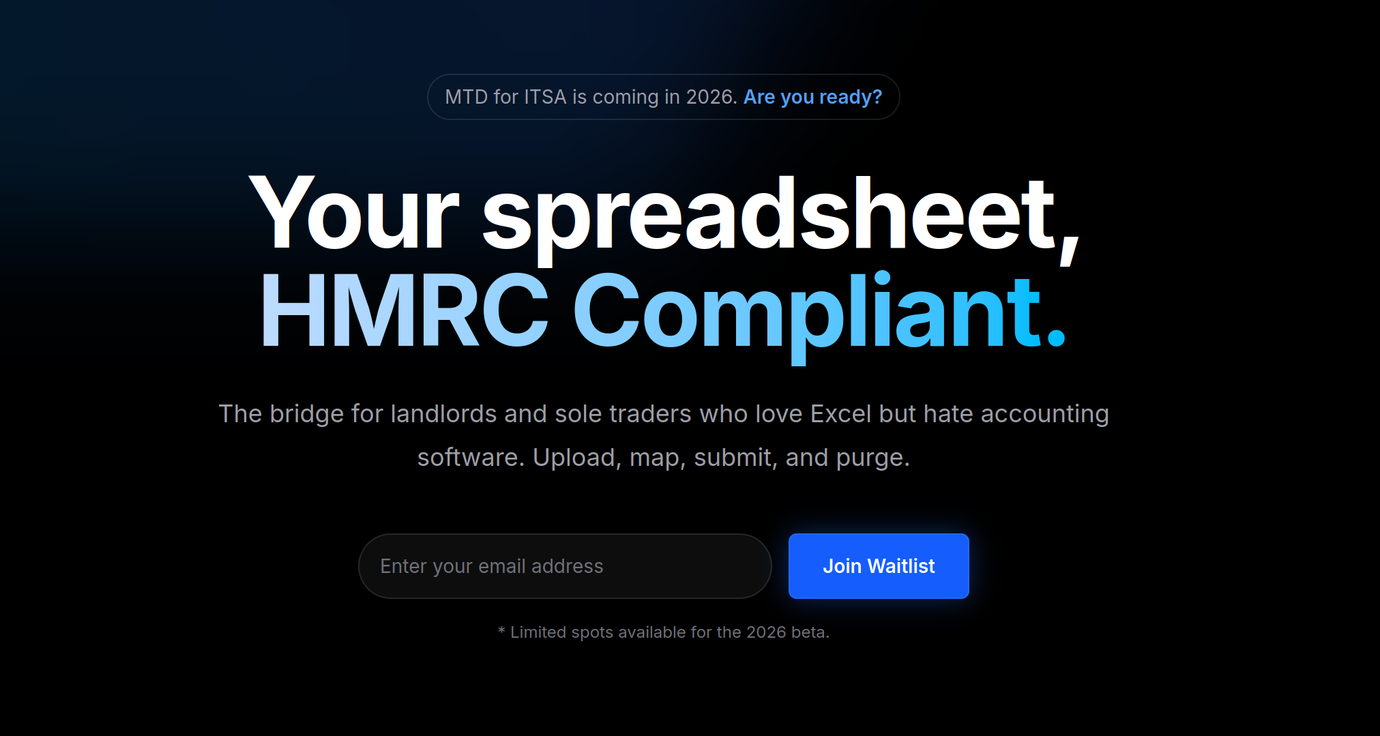
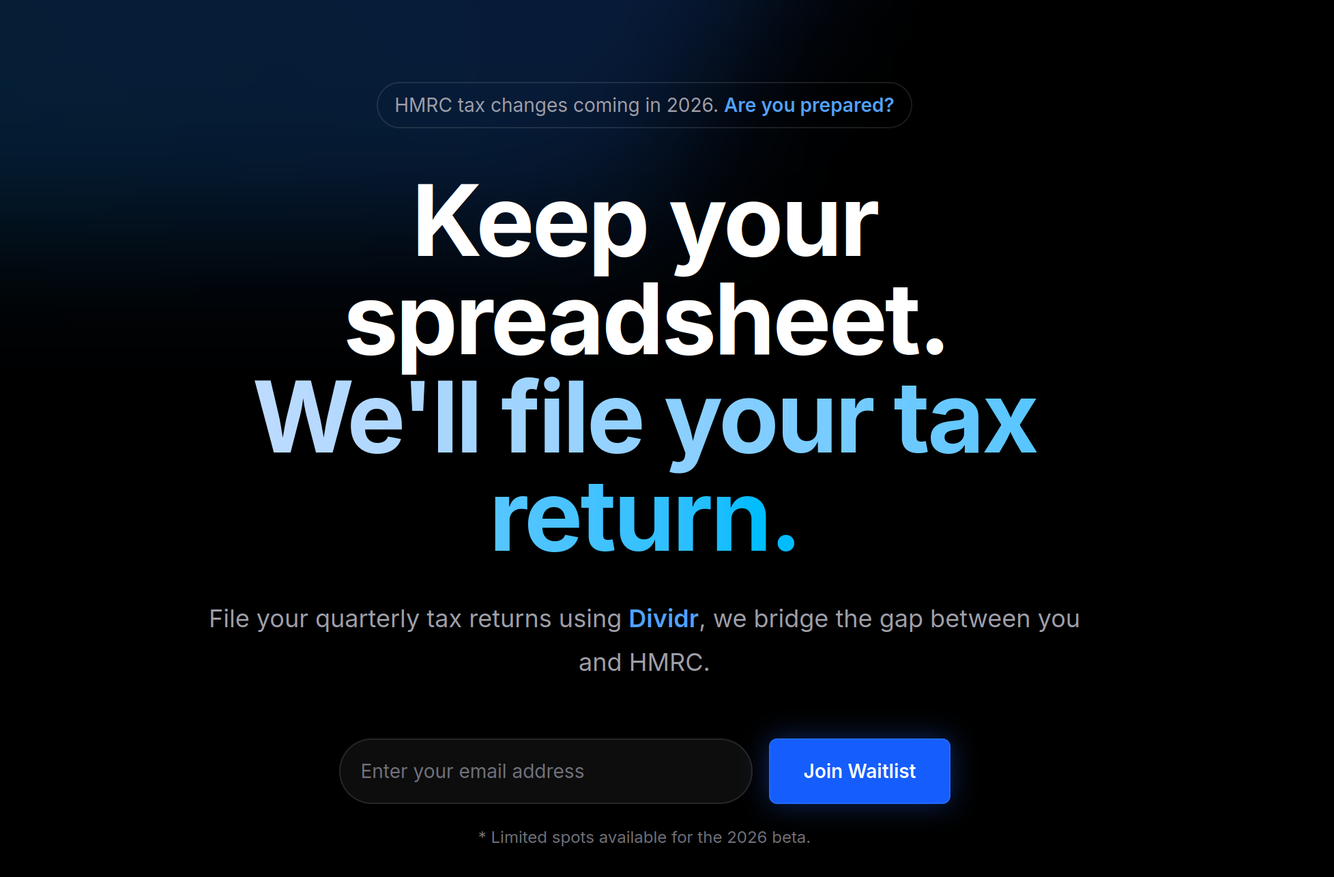
patch: making social image available and refactoring landing glow

diff --git a/web/templates/landing/page_templ.go b/web/templates/landing/page_templ.go
@@ -41,7 +41,7 @@ func Page() templ.Component {
 				}()
 			}
 			ctx = templ.InitializeContext(ctx)
-			templ_7745c5c3_Err = templruntime.WriteString(templ_7745c5c3_Buffer, 1, "<div class=\"relative isolate bg-black\"><div class=\"relative pt-14 pb-16 sm:pb-20\"><div class=\"absolute inset-x-0 -top-40 -z-10 transform-gpu overflow-hidden blur-3xl sm:-top-80\"><div class=\"relative left-[calc(50%-11rem)] aspect-[1155/678] w-[36.125rem] -translate-x-1/2 rotate-[30deg] bg-gradient-to-tr from-[#0284c7] to-[#2563eb] opacity-20 sm:left-[calc(50%-30rem)] sm:w-[72.1875rem]\"></div></div><div class=\"mx-auto max-w-2xl py-24 sm:py-48 text-center px-4\"><div class=\"mb-8 flex justify-center\"><div class=\"relative rounded-full px-3 py-1 text-sm leading-6 text-zinc-400 ring-1 ring-white/10 hover:ring-white/20\">HMRC tax changes coming in 2026. <span class=\"font-semibold text-blue-400\">Are you prepared?</span></div></div><h1 class=\"text-4xl font-bold tracking-tight text-white sm:text-7xl\">Keep your spreadsheet. <br><span class=\"text-transparent bg-clip-text bg-gradient-to-r from-blue-200 to-sky-400\">We'll file your tax return.</span></h1><p class=\"mt-6 text-lg leading-8 text-zinc-400\">File your quarterly tax returns using <span class=\"font-semibold text-blue-400\">Dividr</span>, we bridge the gap between you and HMRC.</p><div id=\"waitlist-form\" class=\"mt-10 flex flex-col items-center justify-center gap-4 sm:flex-row scroll-mt-20\"><form hx-post=\"/waitlist\" hx-swap=\"outerHTML\" hx-target=\"this\" class=\"flex w-full max-w-md flex-col gap-3 sm:flex-row transition-all duration-300\"><div class=\"fixed left-[-9999px] top-[-9999px]\" aria-hidden=\"true\"><label for=\"website-hp-hero\">Website</label> <input type=\"text\" name=\"website_hp\" id=\"website-hp-hero\" tabindex=\"-1\" autocomplete=\"off\"></div><input type=\"email\" name=\"email\" required placeholder=\"Enter your email address\" class=\"min-w-0 flex-auto rounded-full border-0 bg-white/5 px-4 py-3 text-white shadow-sm ring-1 ring-inset ring-white/10 focus:ring-2 focus:ring-inset focus:ring-blue-500 sm:text-sm sm:leading-6 placeholder:text-zinc-500\"> <button type=\"submit\" class=\"btn-glow whitespace-nowrap px-6 py-3 w-full sm:w-auto\">Join Waitlist</button></form></div><p class=\"mt-4 text-xs text-zinc-500\">* Limited spots available for the 2026 beta.</p></div></div><section class=\"pt-24 pb-32 px-6 bg-zinc-950/50 border-t border-white/5\"><div class=\"mx-auto max-w-7xl\"><div class=\"text-center mb-16 max-w-2xl mx-auto\"><h2 class=\"text-3xl font-bold tracking-tight text-white sm:text-4xl\">Built for speed and compliance</h2><p class=\"mt-4 text-lg text-zinc-400\">Everything you need to maintain your tax audit trail without changing how you work.</p></div><div class=\"grid grid-cols-1 gap-8 sm:grid-cols-3\"><div class=\"card-glass p-8 bg-zinc-900/40 border border-white/5 rounded-2xl transition-all duration-300 hover:border-blue-500/30 hover:shadow-[0_0_30px_-5px_rgba(37,99,235,0.15)] hover:bg-zinc-900 group\"><div class=\"text-blue-400 mb-4 group-hover:scale-110 transition-transform duration-300 origin-left\"><svg class=\"h-6 w-6\" fill=\"none\" viewBox=\"0 0 24 24\" stroke-width=\"1.5\" stroke=\"currentColor\"><path stroke-linecap=\"round\" stroke-linejoin=\"round\" d=\"M9 12.75L11.25 15 15 9.75M21 12c0 1.268-.63 2.39-1.593 3.068a3.745 3.745 0 01-1.043 3.296 3.745 3.745 0 01-3.296 1.043A3.745 3.745 0 0112 21c-1.268 0-2.39-.63-3.068-1.593a3.746 3.746 0 01-3.296-1.043 3.745 3.745 0 01-1.043-3.296A3.745 3.745 0 013 12c0-1.268.63-2.39 1.593-3.068a3.745 3.745 0 011.043-3.296 3.746 3.746 0 013.296-1.043A3.746 3.746 0 0112 3c1.268 0 2.39.63 3.068 1.593a3.746 3.746 0 013.296 1.043 3.746 3.746 0 011.043 3.296A3.745 3.745 0 0121 12z\"></path></svg></div><h3 class=\"text-lg font-semibold text-white group-hover:text-blue-200 transition-colors\">HMRC Recognised</h3><p class=\"mt-2 text-sm text-zinc-400\">We are fully compliant with HMRC tax requirements.</p></div><div class=\"card-glass p-8 bg-zinc-900/40 border border-white/5 rounded-2xl transition-all duration-300 hover:border-blue-500/30 hover:shadow-[0_0_30px_-5px_rgba(37,99,235,0.15)] hover:bg-zinc-900 group\"><div class=\"text-blue-400 mb-4 group-hover:scale-110 transition-transform duration-300 origin-left\"><svg class=\"h-6 w-6\" fill=\"none\" viewBox=\"0 0 24 24\" stroke-width=\"1.5\" stroke=\"currentColor\"><path stroke-linecap=\"round\" stroke-linejoin=\"round\" d=\"M14.74 9l-.346 9m-4.788 0L9.26 9m9.968-3.21c.342.052.682.107 1.022.166m-1.022-.165L18.16 19.673a2.25 2.25 0 01-2.244 2.077H8.084a2.25 2.25 0 01-2.244-2.077L4.772 5.79m14.456 0a48.108 48.108 0 00-3.478-.397m-12 .562c.34-.059.68-.114 1.022-.165m0 0a48.11 48.11 0 013.478-.397m7.5 0v-.916c0-1.18-.91-2.164-2.09-2.201a51.964 51.964 0 00-3.32 0c-1.18.037-2.09 1.022-2.09 2.201v.916m7.5 0a48.667 48.667 0 00-7.5 0\"></path></svg></div><h3 class=\"text-lg font-semibold text-white group-hover:text-blue-200 transition-colors\">Privacy First</h3><p class=\"mt-2 text-sm text-zinc-400\">We clear transaction details within 24 hours. Your privacy is our priority.</p></div><div class=\"card-glass p-8 bg-zinc-900/40 border border-white/5 rounded-2xl transition-all duration-300 hover:border-blue-500/30 hover:shadow-[0_0_30px_-5px_rgba(37,99,235,0.15)] hover:bg-zinc-900 group\"><div class=\"text-blue-400 mb-4 group-hover:scale-110 transition-transform duration-300 origin-left\"><svg class=\"h-6 w-6\" fill=\"none\" viewBox=\"0 0 24 24\" stroke-width=\"1.5\" stroke=\"currentColor\"><path stroke-linecap=\"round\" stroke-linejoin=\"round\" d=\"M3.75 4.875c0-.621.504-1.125 1.125-1.125h4.5c.621 0 1.125.504 1.125 1.125v4.5c0 .621-.504 1.125-1.125 1.125h-4.5A1.125 1.125 0 013.75 9.375v-4.5zM3.75 14.625c0-.621.504-1.125 1.125-1.125h4.5c.621 0 1.125.504 1.125 1.125v4.5c0 .621-.504 1.125-1.125 1.125h-4.5a1.125 1.125 0 01-1.125-1.125v-4.5zM13.5 4.875c0-.621.504-1.125 1.125-1.125h4.5c.621 0 1.125.504 1.125 1.125v4.5c0 .621-.504 1.125-1.125 1.125h-4.5A1.125 1.125 0 0113.5 9.375v-4.5z\"></path><path stroke-linecap=\"round\" stroke-linejoin=\"round\" d=\"M6.75 6.75h.75v.75h-.75v-.75zM6.75 16.5h.75v.75h-.75v-.75zM16.5 6.75h.75v.75h-.75v-.75zM13.5 13.5h.75v.75h-.75v-.75zM13.5 19.5h.75v.75h-.75v-.75zM19.5 13.5h.75v.75h-.75v-.75zM19.5 19.5h.75v.75h-.75v-.75zM16.5 16.5h.75v.75h-.75v-.75z\"></path></svg></div><h3 class=\"text-lg font-semibold text-white group-hover:text-blue-200 transition-colors\">Smart Mapping</h3><p class=\"mt-2 text-sm text-zinc-400\">Tell us once which spreadsheet columns contain dates and amounts. Future uploads take seconds.</p></div></div></div></section><div class=\"mt-0 py-12 bg-black overflow-hidden border-b border-white/5\"><div class=\"mx-auto max-w-7xl px-6 lg:px-8\"><h2 class=\"text-center text-sm font-semibold leading-8 text-zinc-500 mb-12\"><span class=\"font-semibold text-blue-400\">Dividr </span>is compatible with your favourite spreadsheet formats:</h2><div class=\"relative w-full overflow-hidden mask-gradient\"><div class=\"flex animate-scroll-seamless gap-24 w-max\"><div class=\"flex gap-24 items-center shrink-0\"><div class=\"flex items-center gap-3 text-zinc-500 font-semibold text-lg\">Excel</div><div class=\"flex items-center gap-3 text-zinc-500 font-semibold text-lg\">CSV</div><div class=\"flex items-center gap-3 text-zinc-500 font-semibold text-lg\">Google Sheets</div><div class=\"flex items-center gap-3 text-zinc-500 font-semibold text-lg\">Apple Numbers</div><div class=\"flex items-center gap-3 text-zinc-500 font-semibold text-lg\">XLSX</div></div><div class=\"flex gap-24 items-center shrink-0\"><div class=\"flex items-center gap-3 text-zinc-500 font-semibold text-lg\">Excel</div><div class=\"flex items-center gap-3 text-zinc-500 font-semibold text-lg\">CSV</div><div class=\"flex items-center gap-3 text-zinc-500 font-semibold text-lg\">Google Sheets</div><div class=\"flex items-center gap-3 text-zinc-500 font-semibold text-lg\">Apple Numbers</div><div class=\"flex items-center gap-3 text-zinc-500 font-semibold text-lg\">XLSX</div></div></div></div></div></div><div class=\"relative isolate overflow-hidden bg-black\"><div class=\"absolute inset-x-0 top-0 -z-10 transform-gpu overflow-hidden opacity-30 blur-3xl\" aria-hidden=\"true\"><div class=\"relative left-[calc(50%-20rem)] aspect-[1155/678] w-[50rem] -translate-x-1/2 rotate-[30deg] bg-gradient-to-tr from-[#0284c7] to-[#2563eb] opacity-40 sm:left-[calc(50%-35rem)] sm:w-[75rem]\"></div></div><div id=\"how-it-works\" class=\"pt-30 pb-12 sm:pt-35 sm:pb-16 px-6\"><div class=\"mx-auto max-w-7xl lg:px-8\"><div class=\"mx-auto max-w-2xl lg:text-center\"><h2 class=\"text-base font-semibold leading-7 text-blue-400\">The Workflow</h2><p class=\"mt-2 text-3xl font-bold tracking-tight text-white sm:text-4xl\">Keep your process. Automate the tax filing.</p></div><div class=\"mx-auto mt-16 max-w-2xl sm:mt-20 lg:mt-24 lg:max-w-none\"><dl class=\"grid max-w-xl grid-cols-1 gap-x-8 gap-y-12 lg:max-w-none lg:grid-cols-3\"><div class=\"flex flex-col\"><dt class=\"flex items-center gap-x-3 text-base font-semibold leading-7 text-white\"><div class=\"h-10 w-10 flex items-center justify-center rounded-lg bg-blue-600/10 ring-1 ring-blue-600/20\"><span class=\"text-blue-400 font-bold\">1</span></div>Upload a Spreadsheet</dt><dd class=\"mt-4 flex flex-auto flex-col text-base leading-7 text-zinc-400\"><p class=\"flex-auto\">Export your spreadsheet and drop it into our secure platform.</p></dd></div><div class=\"flex flex-col\"><dt class=\"flex items-center gap-x-3 text-base font-semibold leading-7 text-white\"><div class=\"h-10 w-10 flex items-center justify-center rounded-lg bg-blue-600/10 ring-1 ring-blue-600/20\"><span class=\"text-blue-400 font-bold\">2</span></div>Match Columns</dt><dd class=\"mt-4 flex flex-auto flex-col text-base leading-7 text-zinc-400\"><p class=\"flex-auto\">Tell us which spreadsheet column is \"Date\" and which is \"Amount\". We store this mapping for future uploads.</p></dd></div><div class=\"flex flex-col\"><dt class=\"flex items-center gap-x-3 text-base font-semibold leading-7 text-white\"><div class=\"h-10 w-10 flex items-center justify-center rounded-lg bg-blue-600/10 ring-1 ring-blue-600/20\"><span class=\"text-blue-400 font-bold\">3</span></div>File Return</dt><dd class=\"mt-4 flex flex-auto flex-col text-base leading-7 text-zinc-400\"><p class=\"flex-auto\">We send the data to HMRC and generate your tax receipt. Your raw transactional data is then securely cleared.</p></dd></div></dl></div></div></div><div class=\"py-24 sm:py-32 border-t border-white/5 relative\"><div class=\"mx-auto max-w-7xl px-6 lg:px-8\"><div class=\"mx-auto max-w-2xl lg:text-center mb-16\"><h2 class=\"text-base font-semibold leading-7 text-blue-400\">Common Questions</h2><p class=\"mt-2 text-3xl font-bold tracking-tight text-white sm:text-4xl\">Everything you need to know</p></div><div class=\"mx-auto max-w-2xl divide-y divide-white/10\"><div class=\"py-6\"><details class=\"group\"><summary class=\"flex w-full items-start justify-between text-left text-white cursor-pointer list-none\"><span class=\"text-base font-semibold leading-7\">Is this fully HMRC compliant?</span> <span class=\"ml-6 flex h-7 items-center\"><svg class=\"h-6 w-6 transform group-open:rotate-180 transition-transform text-blue-400\" fill=\"none\" viewBox=\"0 0 24 24\" stroke-width=\"1.5\" stroke=\"currentColor\"><path stroke-linecap=\"round\" stroke-linejoin=\"round\" d=\"M19.5 8.25l-7.5 7.5-7.5-7.5\"></path></svg></span></summary><p class=\"mt-4 text-base leading-7 text-zinc-400\">Yes. By uploading your spreadsheet to our platform, you meet HMRC's Making Tax Digital requirements. We provide the digital link needed to keep your records compliant.</p></details></div><div class=\"py-6\"><details class=\"group\"><summary class=\"flex w-full items-start justify-between text-left text-white cursor-pointer list-none\"><span class=\"text-base font-semibold leading-7\">Do you store my transactional data?</span> <span class=\"ml-6 flex h-7 items-center\"><svg class=\"h-6 w-6 transform group-open:rotate-180 transition-transform text-blue-400\" fill=\"none\" viewBox=\"0 0 24 24\" stroke-width=\"1.5\" stroke=\"currentColor\"><path stroke-linecap=\"round\" stroke-linejoin=\"round\" d=\"M19.5 8.25l-7.5 7.5-7.5-7.5\"></path></svg></span></summary><p class=\"mt-4 text-base leading-7 text-zinc-400\">No. Files are staged temporarily to generate the return and then deleted. We only keep the submission receipt and your spreadsheet column mappings.</p></details></div><div class=\"py-6\"><details class=\"group\"><summary class=\"flex w-full items-start justify-between text-left text-white cursor-pointer list-none\"><span class=\"text-base font-semibold leading-7\">Who is this for?</span> <span class=\"ml-6 flex h-7 items-center\"><svg class=\"h-6 w-6 transform group-open:rotate-180 transition-transform text-blue-400\" fill=\"none\" viewBox=\"0 0 24 24\" stroke-width=\"1.5\" stroke=\"currentColor\"><path stroke-linecap=\"round\" stroke-linejoin=\"round\" d=\"M19.5 8.25l-7.5 7.5-7.5-7.5\"></path></svg></span></summary><p class=\"mt-4 text-base leading-7 text-zinc-400\">Landlords and Sole Traders earning over £50k (starting 2026) who want to keep using spreadsheets rather than switching to complex accounting software.</p></details></div></div></div></div><div class=\"mt-0 px-6 pt-0 pb-24 sm:pt-0 sm:pb-32 lg:px-8\"><div class=\"mx-auto max-w-2xl text-center\"><h2 class=\"text-3xl font-bold tracking-tight text-white sm:text-4xl\">Ready to get sorted?</h2><p class=\"mx-auto mt-6 max-w-xl text-lg leading-8 text-zinc-400\">Join the waiting list today. Secure your spot for the 2026 mandate.</p><div class=\"mt-10 flex flex-col items-center justify-center gap-4 sm:flex-row\"><form hx-post=\"/waitlist\" hx-swap=\"outerHTML\" hx-target=\"this\" class=\"flex w-full max-w-md flex-col gap-3 sm:flex-row transition-all duration-300\"><div class=\"fixed left-[-9999px] top-[-9999px]\" aria-hidden=\"true\"><label for=\"website-hp-footer\">Website</label> <input type=\"text\" name=\"website_hp\" id=\"website-hp-footer\" tabindex=\"-1\" autocomplete=\"off\"></div><input type=\"email\" name=\"email\" required placeholder=\"Enter your email address\" class=\"min-w-0 flex-auto rounded-full border-0 bg-white/5 px-4 py-3 text-white shadow-sm ring-1 ring-inset ring-white/10 focus:ring-2 focus:ring-inset focus:ring-blue-500 sm:text-sm sm:leading-6 placeholder:text-zinc-500\"> <button type=\"submit\" class=\"btn-glow whitespace-nowrap px-6 py-3 w-full sm:w-auto\">Join Waitlist</button></form></div></div></div></div></div>")
+			templ_7745c5c3_Err = templruntime.WriteString(templ_7745c5c3_Buffer, 1, "<div class=\"relative isolate bg-black\"><div class=\"relative pt-14 pb-16 sm:pb-20\"><div class=\"absolute inset-x-0 -top-40 -z-10 transform-gpu overflow-hidden blur-3xl sm:-top-80\"><div class=\"relative left-[calc(50%-11rem)] aspect-[1155/678] w-[36.125rem] -translate-x-1/2 rotate-[30deg] bg-gradient-to-tr from-[#0284c7] to-[#2563eb] opacity-25 sm:opacity-25 sm:left-[calc(50%-30rem)] sm:w-[72.1875rem]\"></div></div><div class=\"mx-auto max-w-2xl py-24 sm:py-48 text-center px-4\"><div class=\"mb-8 flex justify-center\"><div class=\"relative rounded-full px-3 py-1 text-sm leading-6 text-zinc-400 ring-1 ring-white/10 hover:ring-white/20\">HMRC tax changes coming in 2026. <span class=\"font-semibold text-blue-400\">Are you prepared?</span></div></div><h1 class=\"text-4xl font-bold tracking-tight text-white sm:text-7xl\">Keep your spreadsheet. <br><span class=\"text-transparent bg-clip-text bg-gradient-to-r from-blue-200 to-sky-400\">We'll file your tax return.</span></h1><p class=\"mt-6 text-lg leading-8 text-zinc-400\">File your quarterly tax returns using <span class=\"font-semibold text-blue-400\">Dividr</span>, we bridge the gap between you and HMRC.</p><div id=\"waitlist-form\" class=\"mt-10 flex flex-col items-center justify-center gap-4 sm:flex-row scroll-mt-20\"><form hx-post=\"/waitlist\" hx-swap=\"outerHTML\" hx-target=\"this\" class=\"flex w-full max-w-md flex-col gap-3 sm:flex-row transition-all duration-300\"><div class=\"fixed left-[-9999px] top-[-9999px]\" aria-hidden=\"true\"><label for=\"website-hp-hero\">Website</label> <input type=\"text\" name=\"website_hp\" id=\"website-hp-hero\" tabindex=\"-1\" autocomplete=\"off\"></div><input type=\"email\" name=\"email\" required placeholder=\"Enter your email address\" class=\"min-w-0 flex-auto rounded-full border-0 bg-white/5 px-4 py-3 text-white shadow-sm ring-1 ring-inset ring-white/10 focus:ring-2 focus:ring-inset focus:ring-blue-500 sm:text-sm sm:leading-6 placeholder:text-zinc-500\"> <button type=\"submit\" class=\"btn-glow whitespace-nowrap px-6 py-3 w-full sm:w-auto\">Join Waitlist</button></form></div><p class=\"mt-4 text-xs text-zinc-500\">* Limited spots available for the 2026 beta.</p></div></div><section class=\"pt-24 pb-32 px-6 bg-zinc-950/50 border-t border-white/5\"><div class=\"mx-auto max-w-7xl\"><div class=\"text-center mb-16 max-w-2xl mx-auto\"><h2 class=\"text-3xl font-bold tracking-tight text-white sm:text-4xl\">Built for speed and compliance</h2><p class=\"mt-4 text-lg text-zinc-400\">Everything you need to maintain your tax audit trail without changing how you work.</p></div><div class=\"grid grid-cols-1 gap-8 sm:grid-cols-3\"><div class=\"card-glass p-8 bg-zinc-900/40 border border-white/5 rounded-2xl transition-all duration-300 hover:border-blue-500/30 hover:shadow-[0_0_30px_-5px_rgba(37,99,235,0.15)] hover:bg-zinc-900 group\"><div class=\"text-blue-400 mb-4 group-hover:scale-110 transition-transform duration-300 origin-left\"><svg class=\"h-6 w-6\" fill=\"none\" viewBox=\"0 0 24 24\" stroke-width=\"1.5\" stroke=\"currentColor\"><path stroke-linecap=\"round\" stroke-linejoin=\"round\" d=\"M9 12.75L11.25 15 15 9.75M21 12c0 1.268-.63 2.39-1.593 3.068a3.745 3.745 0 01-1.043 3.296 3.745 3.745 0 01-3.296 1.043A3.745 3.745 0 0112 21c-1.268 0-2.39-.63-3.068-1.593a3.746 3.746 0 01-3.296-1.043 3.745 3.745 0 01-1.043-3.296A3.745 3.745 0 013 12c0-1.268.63-2.39 1.593-3.068a3.745 3.745 0 011.043-3.296 3.746 3.746 0 013.296-1.043A3.746 3.746 0 0112 3c1.268 0 2.39.63 3.068 1.593a3.746 3.746 0 013.296 1.043 3.746 3.746 0 011.043 3.296A3.745 3.745 0 0121 12z\"></path></svg></div><h3 class=\"text-lg font-semibold text-white group-hover:text-blue-200 transition-colors\">HMRC Recognised</h3><p class=\"mt-2 text-sm text-zinc-400\">We are fully compliant with HMRC tax requirements.</p></div><div class=\"card-glass p-8 bg-zinc-900/40 border border-white/5 rounded-2xl transition-all duration-300 hover:border-blue-500/30 hover:shadow-[0_0_30px_-5px_rgba(37,99,235,0.15)] hover:bg-zinc-900 group\"><div class=\"text-blue-400 mb-4 group-hover:scale-110 transition-transform duration-300 origin-left\"><svg class=\"h-6 w-6\" fill=\"none\" viewBox=\"0 0 24 24\" stroke-width=\"1.5\" stroke=\"currentColor\"><path stroke-linecap=\"round\" stroke-linejoin=\"round\" d=\"M14.74 9l-.346 9m-4.788 0L9.26 9m9.968-3.21c.342.052.682.107 1.022.166m-1.022-.165L18.16 19.673a2.25 2.25 0 01-2.244 2.077H8.084a2.25 2.25 0 01-2.244-2.077L4.772 5.79m14.456 0a48.108 48.108 0 00-3.478-.397m-12 .562c.34-.059.68-.114 1.022-.165m0 0a48.11 48.11 0 013.478-.397m7.5 0v-.916c0-1.18-.91-2.164-2.09-2.201a51.964 51.964 0 00-3.32 0c-1.18.037-2.09 1.022-2.09 2.201v.916m7.5 0a48.667 48.667 0 00-7.5 0\"></path></svg></div><h3 class=\"text-lg font-semibold text-white group-hover:text-blue-200 transition-colors\">Privacy First</h3><p class=\"mt-2 text-sm text-zinc-400\">We clear transaction details within 24 hours. Your privacy is our priority.</p></div><div class=\"card-glass p-8 bg-zinc-900/40 border border-white/5 rounded-2xl transition-all duration-300 hover:border-blue-500/30 hover:shadow-[0_0_30px_-5px_rgba(37,99,235,0.15)] hover:bg-zinc-900 group\"><div class=\"text-blue-400 mb-4 group-hover:scale-110 transition-transform duration-300 origin-left\"><svg class=\"h-6 w-6\" fill=\"none\" viewBox=\"0 0 24 24\" stroke-width=\"1.5\" stroke=\"currentColor\"><path stroke-linecap=\"round\" stroke-linejoin=\"round\" d=\"M3.75 4.875c0-.621.504-1.125 1.125-1.125h4.5c.621 0 1.125.504 1.125 1.125v4.5c0 .621-.504 1.125-1.125 1.125h-4.5A1.125 1.125 0 013.75 9.375v-4.5zM3.75 14.625c0-.621.504-1.125 1.125-1.125h4.5c.621 0 1.125.504 1.125 1.125v4.5c0 .621-.504 1.125-1.125 1.125h-4.5a1.125 1.125 0 01-1.125-1.125v-4.5zM13.5 4.875c0-.621.504-1.125 1.125-1.125h4.5c.621 0 1.125.504 1.125 1.125v4.5c0 .621-.504 1.125-1.125 1.125h-4.5A1.125 1.125 0 0113.5 9.375v-4.5z\"></path><path stroke-linecap=\"round\" stroke-linejoin=\"round\" d=\"M6.75 6.75h.75v.75h-.75v-.75zM6.75 16.5h.75v.75h-.75v-.75zM16.5 6.75h.75v.75h-.75v-.75zM13.5 13.5h.75v.75h-.75v-.75zM13.5 19.5h.75v.75h-.75v-.75zM19.5 13.5h.75v.75h-.75v-.75zM19.5 19.5h.75v.75h-.75v-.75zM16.5 16.5h.75v.75h-.75v-.75z\"></path></svg></div><h3 class=\"text-lg font-semibold text-white group-hover:text-blue-200 transition-colors\">Smart Mapping</h3><p class=\"mt-2 text-sm text-zinc-400\">Tell us once which spreadsheet columns contain dates and amounts. Future uploads take seconds.</p></div></div></div></section><div class=\"mt-0 py-12 bg-black overflow-hidden border-b border-white/5\"><div class=\"mx-auto max-w-7xl px-6 lg:px-8\"><h2 class=\"text-center text-sm font-semibold leading-8 text-zinc-500 mb-12\"><span class=\"font-semibold text-blue-400\">Dividr </span>is compatible with your favourite spreadsheet formats:</h2><div class=\"relative w-full overflow-hidden mask-gradient\"><div class=\"flex animate-scroll-seamless gap-24 w-max\"><div class=\"flex gap-24 items-center shrink-0\"><div class=\"flex items-center gap-3 text-zinc-500 font-semibold text-lg\">Excel</div><div class=\"flex items-center gap-3 text-zinc-500 font-semibold text-lg\">CSV</div><div class=\"flex items-center gap-3 text-zinc-500 font-semibold text-lg\">Google Sheets</div><div class=\"flex items-center gap-3 text-zinc-500 font-semibold text-lg\">Apple Numbers</div><div class=\"flex items-center gap-3 text-zinc-500 font-semibold text-lg\">XLSX</div></div><div class=\"flex gap-24 items-center shrink-0\"><div class=\"flex items-center gap-3 text-zinc-500 font-semibold text-lg\">Excel</div><div class=\"flex items-center gap-3 text-zinc-500 font-semibold text-lg\">CSV</div><div class=\"flex items-center gap-3 text-zinc-500 font-semibold text-lg\">Google Sheets</div><div class=\"flex items-center gap-3 text-zinc-500 font-semibold text-lg\">Apple Numbers</div><div class=\"flex items-center gap-3 text-zinc-500 font-semibold text-lg\">XLSX</div></div></div></div></div></div><div class=\"relative isolate overflow-hidden bg-black\"><div class=\"absolute inset-x-0 top-0 -z-10 transform-gpu overflow-hidden blur-3xl\" aria-hidden=\"true\"><div class=\"relative left-[calc(50%-20rem)] aspect-[1155/678] w-[50rem] -translate-x-1/2 rotate-[30deg] bg-gradient-to-tr from-[#0284c7] to-[#2563eb] \n                        opacity-30 sm:opacity-30 \n                        sm:left-[calc(50%-35rem)] sm:w-[75rem]\"></div></div><div id=\"how-it-works\" class=\"pt-30 pb-12 sm:pt-35 sm:pb-16 px-6\"><div class=\"mx-auto max-w-7xl lg:px-8\"><div class=\"mx-auto max-w-2xl lg:text-center\"><h2 class=\"text-base font-semibold leading-7 text-blue-400\">The Workflow</h2><p class=\"mt-2 text-3xl font-bold tracking-tight text-white sm:text-4xl\">Keep your process. Automate the tax filing.</p></div><div class=\"mx-auto mt-16 max-w-2xl sm:mt-20 lg:mt-24 lg:max-w-none\"><dl class=\"grid max-w-xl grid-cols-1 gap-x-8 gap-y-12 lg:max-w-none lg:grid-cols-3\"><div class=\"flex flex-col\"><dt class=\"flex items-center gap-x-3 text-base font-semibold leading-7 text-white\"><div class=\"h-10 w-10 flex items-center justify-center rounded-lg bg-blue-600/10 ring-1 ring-blue-600/20\"><span class=\"text-blue-400 font-bold\">1</span></div>Upload a Spreadsheet</dt><dd class=\"mt-4 flex flex-auto flex-col text-base leading-7 text-zinc-400\"><p class=\"flex-auto\">Export your spreadsheet and drop it into our secure platform.</p></dd></div><div class=\"flex flex-col\"><dt class=\"flex items-center gap-x-3 text-base font-semibold leading-7 text-white\"><div class=\"h-10 w-10 flex items-center justify-center rounded-lg bg-blue-600/10 ring-1 ring-blue-600/20\"><span class=\"text-blue-400 font-bold\">2</span></div>Match Columns</dt><dd class=\"mt-4 flex flex-auto flex-col text-base leading-7 text-zinc-400\"><p class=\"flex-auto\">Tell us which spreadsheet column is \"Date\" and which is \"Amount\". We store this mapping for future uploads.</p></dd></div><div class=\"flex flex-col\"><dt class=\"flex items-center gap-x-3 text-base font-semibold leading-7 text-white\"><div class=\"h-10 w-10 flex items-center justify-center rounded-lg bg-blue-600/10 ring-1 ring-blue-600/20\"><span class=\"text-blue-400 font-bold\">3</span></div>File Return</dt><dd class=\"mt-4 flex flex-auto flex-col text-base leading-7 text-zinc-400\"><p class=\"flex-auto\">We send the data to HMRC and generate your tax receipt. Your raw transactional data is then securely cleared.</p></dd></div></dl></div></div></div><div class=\"py-24 sm:py-32 border-t border-white/5 relative\"><div class=\"mx-auto max-w-7xl px-6 lg:px-8\"><div class=\"mx-auto max-w-2xl lg:text-center mb-16\"><h2 class=\"text-base font-semibold leading-7 text-blue-400\">Common Questions</h2><p class=\"mt-2 text-3xl font-bold tracking-tight text-white sm:text-4xl\">Everything you need to know</p></div><div class=\"mx-auto max-w-2xl divide-y divide-white/10\"><div class=\"py-6\"><details class=\"group\"><summary class=\"flex w-full items-start justify-between text-left text-white cursor-pointer list-none\"><span class=\"text-base font-semibold leading-7\">Is this fully HMRC compliant?</span> <span class=\"ml-6 flex h-7 items-center\"><svg class=\"h-6 w-6 transform group-open:rotate-180 transition-transform text-blue-400\" fill=\"none\" viewBox=\"0 0 24 24\" stroke-width=\"1.5\" stroke=\"currentColor\"><path stroke-linecap=\"round\" stroke-linejoin=\"round\" d=\"M19.5 8.25l-7.5 7.5-7.5-7.5\"></path></svg></span></summary><p class=\"mt-4 text-base leading-7 text-zinc-400\">Yes. By uploading your spreadsheet to our platform, you meet HMRC's Making Tax Digital requirements. We provide the digital link needed to keep your records compliant.</p></details></div><div class=\"py-6\"><details class=\"group\"><summary class=\"flex w-full items-start justify-between text-left text-white cursor-pointer list-none\"><span class=\"text-base font-semibold leading-7\">Do you store my transactional data?</span> <span class=\"ml-6 flex h-7 items-center\"><svg class=\"h-6 w-6 transform group-open:rotate-180 transition-transform text-blue-400\" fill=\"none\" viewBox=\"0 0 24 24\" stroke-width=\"1.5\" stroke=\"currentColor\"><path stroke-linecap=\"round\" stroke-linejoin=\"round\" d=\"M19.5 8.25l-7.5 7.5-7.5-7.5\"></path></svg></span></summary><p class=\"mt-4 text-base leading-7 text-zinc-400\">No. Files are staged temporarily to generate the return and then deleted. We only keep the submission receipt and your spreadsheet column mappings.</p></details></div><div class=\"py-6\"><details class=\"group\"><summary class=\"flex w-full items-start justify-between text-left text-white cursor-pointer list-none\"><span class=\"text-base font-semibold leading-7\">Who is this for?</span> <span class=\"ml-6 flex h-7 items-center\"><svg class=\"h-6 w-6 transform group-open:rotate-180 transition-transform text-blue-400\" fill=\"none\" viewBox=\"0 0 24 24\" stroke-width=\"1.5\" stroke=\"currentColor\"><path stroke-linecap=\"round\" stroke-linejoin=\"round\" d=\"M19.5 8.25l-7.5 7.5-7.5-7.5\"></path></svg></span></summary><p class=\"mt-4 text-base leading-7 text-zinc-400\">Landlords and Sole Traders earning over £50k (starting 2026) who want to keep using spreadsheets rather than switching to complex accounting software.</p></details></div></div></div></div><div class=\"mt-0 px-6 pt-0 pb-24 sm:pt-0 sm:pb-32 lg:px-8\"><div class=\"mx-auto max-w-2xl text-center\"><h2 class=\"text-3xl font-bold tracking-tight text-white sm:text-4xl\">Ready to get sorted?</h2><p class=\"mx-auto mt-6 max-w-xl text-lg leading-8 text-zinc-400\">Join the waiting list today. Secure your spot for the 2026 mandate.</p><div class=\"mt-10 flex flex-col items-center justify-center gap-4 sm:flex-row\"><form hx-post=\"/waitlist\" hx-swap=\"outerHTML\" hx-target=\"this\" class=\"flex w-full max-w-md flex-col gap-3 sm:flex-row transition-all duration-300\"><div class=\"fixed left-[-9999px] top-[-9999px]\" aria-hidden=\"true\"><label for=\"website-hp-footer\">Website</label> <input type=\"text\" name=\"website_hp\" id=\"website-hp-footer\" tabindex=\"-1\" autocomplete=\"off\"></div><input type=\"email\" name=\"email\" required placeholder=\"Enter your email address\" class=\"min-w-0 flex-auto rounded-full border-0 bg-white/5 px-4 py-3 text-white shadow-sm ring-1 ring-inset ring-white/10 focus:ring-2 focus:ring-inset focus:ring-blue-500 sm:text-sm sm:leading-6 placeholder:text-zinc-500\"> <button type=\"submit\" class=\"btn-glow whitespace-nowrap px-6 py-3 w-full sm:w-auto\">Join Waitlist</button></form></div></div></div></div></div>")
 			if templ_7745c5c3_Err != nil {
 				return templ_7745c5c3_Err
 			}
